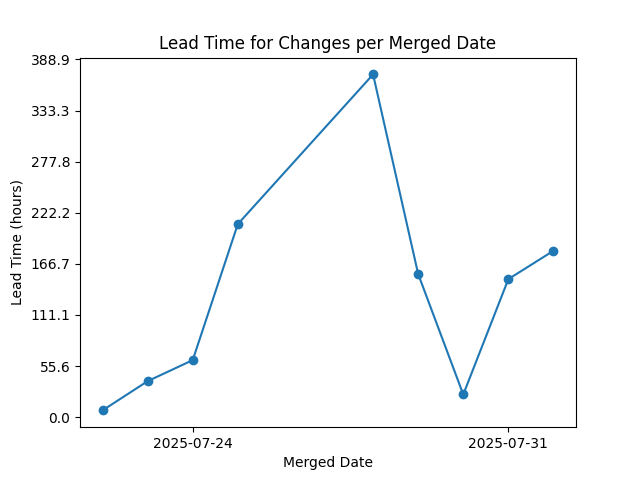
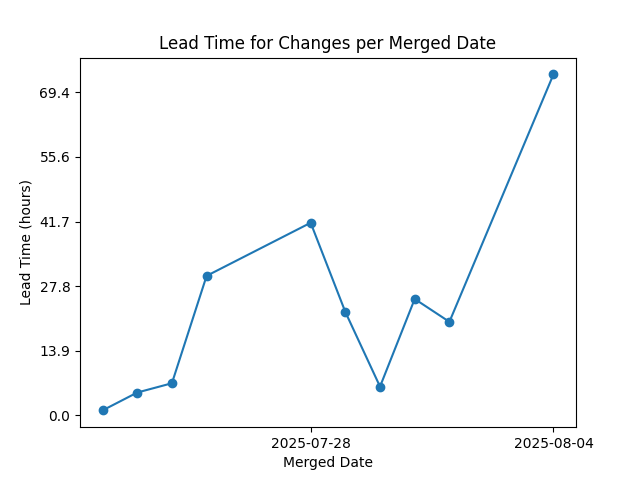
MatplotlibLoaderのloadメソッドを修正し、merged_dateごとのlead_time_secondsの平均を算出するように変更しました。

diff --git a/src/agile_calculator/loaders/matplotlib_loader.py b/src/agile_calculator/loaders/matplotlib_loader.py
@@ -1,4 +1,5 @@
 from collections import defaultdict
+from statistics import mean
 
 import matplotlib.dates as mdates
 import matplotlib.ticker as ticker
@@ -21,14 +22,14 @@ class MatplotlibLoader:
         self.records = records
 
     def load(self):
-        # merged_atごとにlead_time_secondsを合計
-        merged_dict = defaultdict(float)
+        # merged_dateごとにlead_time_secondsの平均を算出
+        merged_dict = defaultdict(list)
         for r in self.records:
-            merged_dict[r.merged_date] += r.lead_time_seconds
-        # 日付でソート
-        sorted_items = sorted(merged_dict.items())
+            merged_dict[r.merged_date].append(r.lead_time_seconds)
+        # 日付でソートし、平均値を算出
+        sorted_items = sorted((k, mean(v)) for k, v in merged_dict.items())
         x = [k for k, v in sorted_items]
-        y = [v for k, v in sorted_items]  # 秒のまま
+        y = [v for k, v in sorted_items]  # 秒のまま（平均）
         plt.plot(x, y, marker='o')
         plt.xlabel(self.X_LABEL)
         plt.ylabel(self.Y_LABEL)
